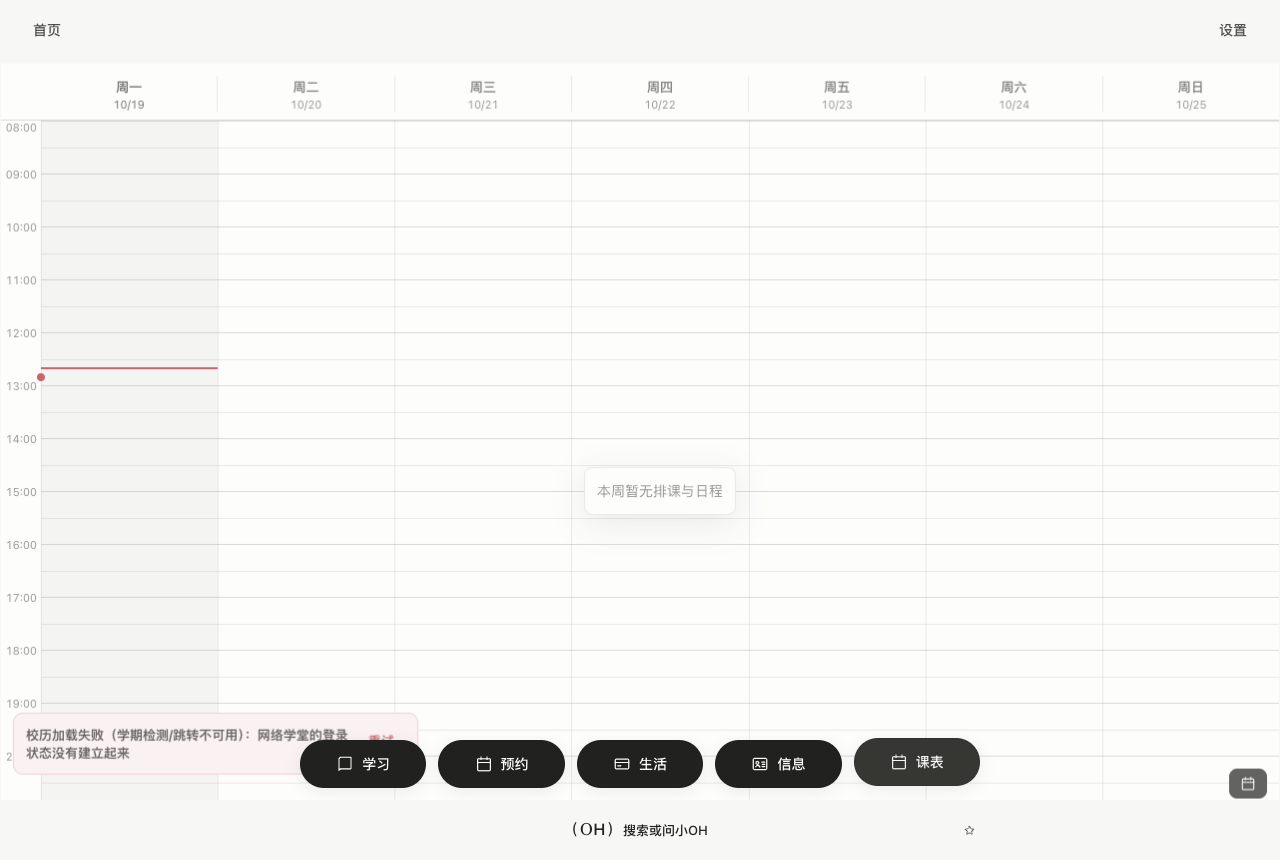
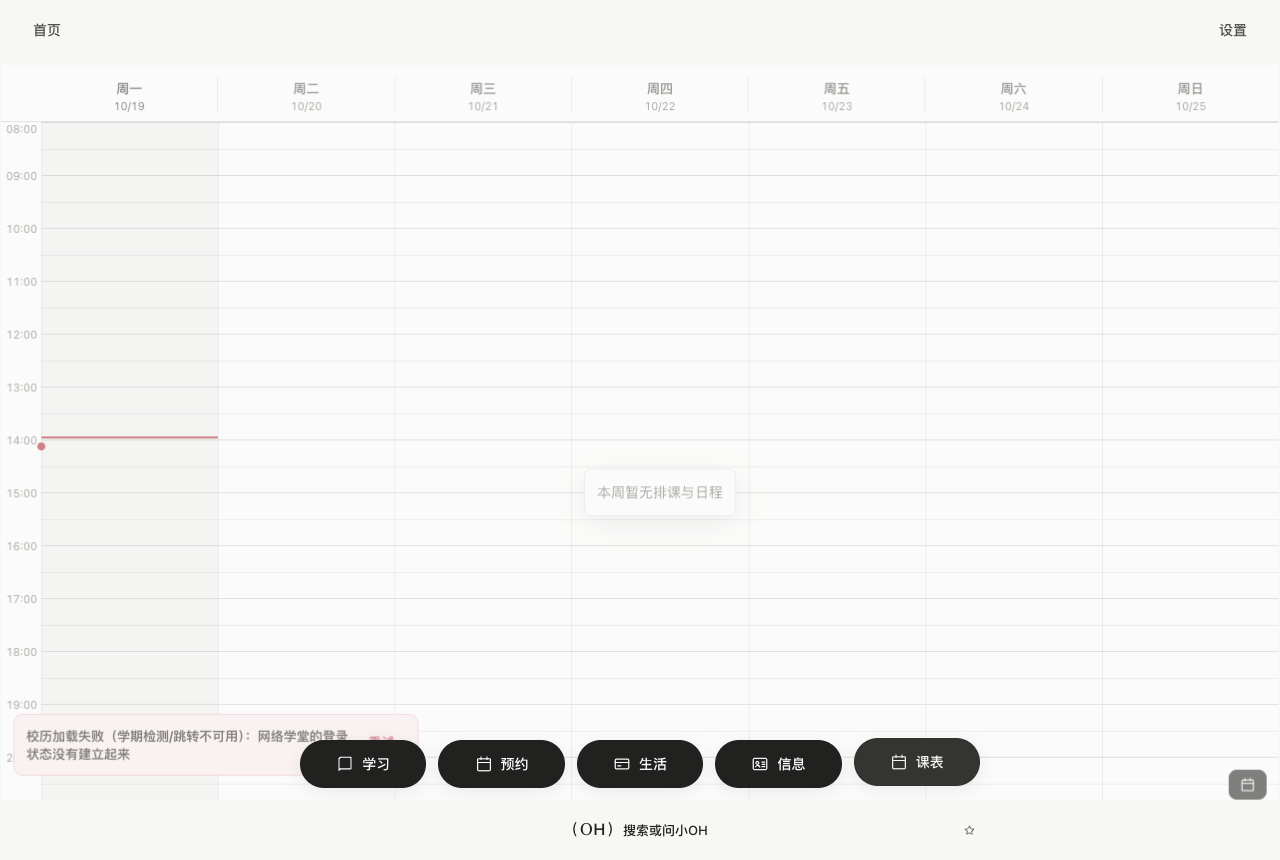
fix(overlay): 表单弹窗 z-index 从 9999 提到 --og-z-menu，修组织弹窗里再开表单被盖住点不动
OneGUI 模态横切后遮罩是 --og-z-overlay(11000)/面板 --og-z-modal(11010)，
插件表单弹窗 .plg-form-overlay 还停在换血期的 9999——任何在 Modal 里
openFormModal 的流程（组织工作区的添加成员/新建项目/发布公告/编辑资料）
整块被外层模态盖住，按钮点不动。改取 --og-z-menu(11020)：高于模态面板，
仍低于确认框(--og-z-confirm 12500)。experience-browser-test 30 项随后全绿。

diff --git a/apps/desktop/src/styles/global.css b/apps/desktop/src/styles/global.css
@@ -4282,8 +4282,11 @@ html.is-phone .mail-toolbar-search { max-width: 320px; }
    本页同语义已走 Tag tone=success */
 
 /* ── 插件表单弹窗 ── */
+/* z-index 必须高于 OneGUI 模态面板（--og-z-modal 11010）：组织弹窗里再开
+   「添加成员 / 新建项目 / 发布公告」这类表单，否则整块被下面的模态盖住点不动。
+   仍低于确认框（--og-z-confirm 12500）：表单里弹确认要盖在表单上。 */
 .plg-form-overlay {
-  position: fixed; inset: 0; z-index: 9999;
+  position: fixed; inset: 0; z-index: var(--og-z-menu);
   background: rgba(0, 0, 0, .35); backdrop-filter: var(--glass-scrim-blur);
   display: flex; align-items: center; justify-content: center; padding: 20px;
 }
